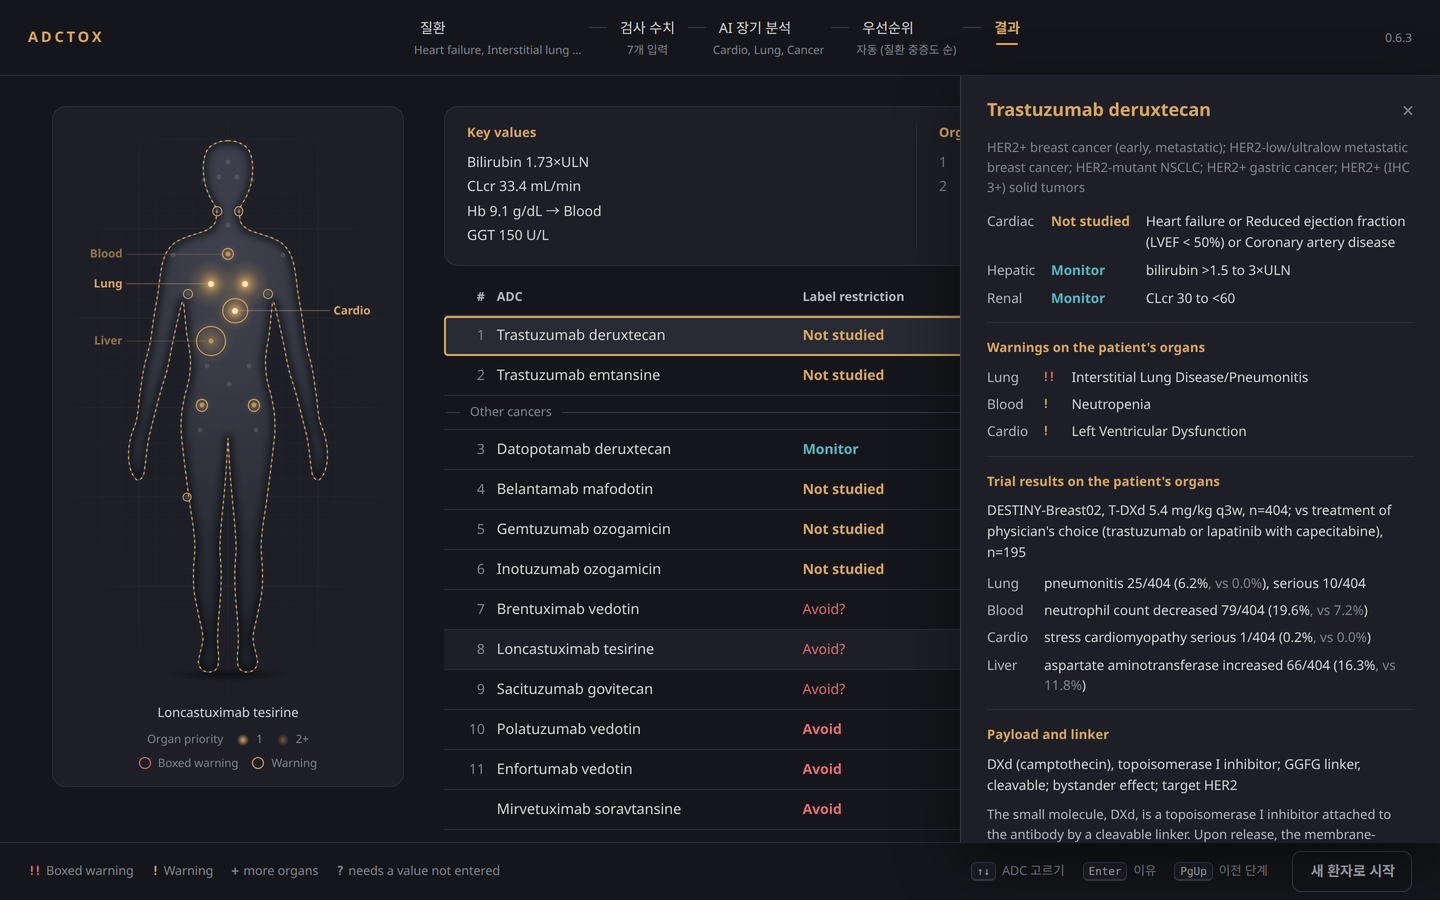
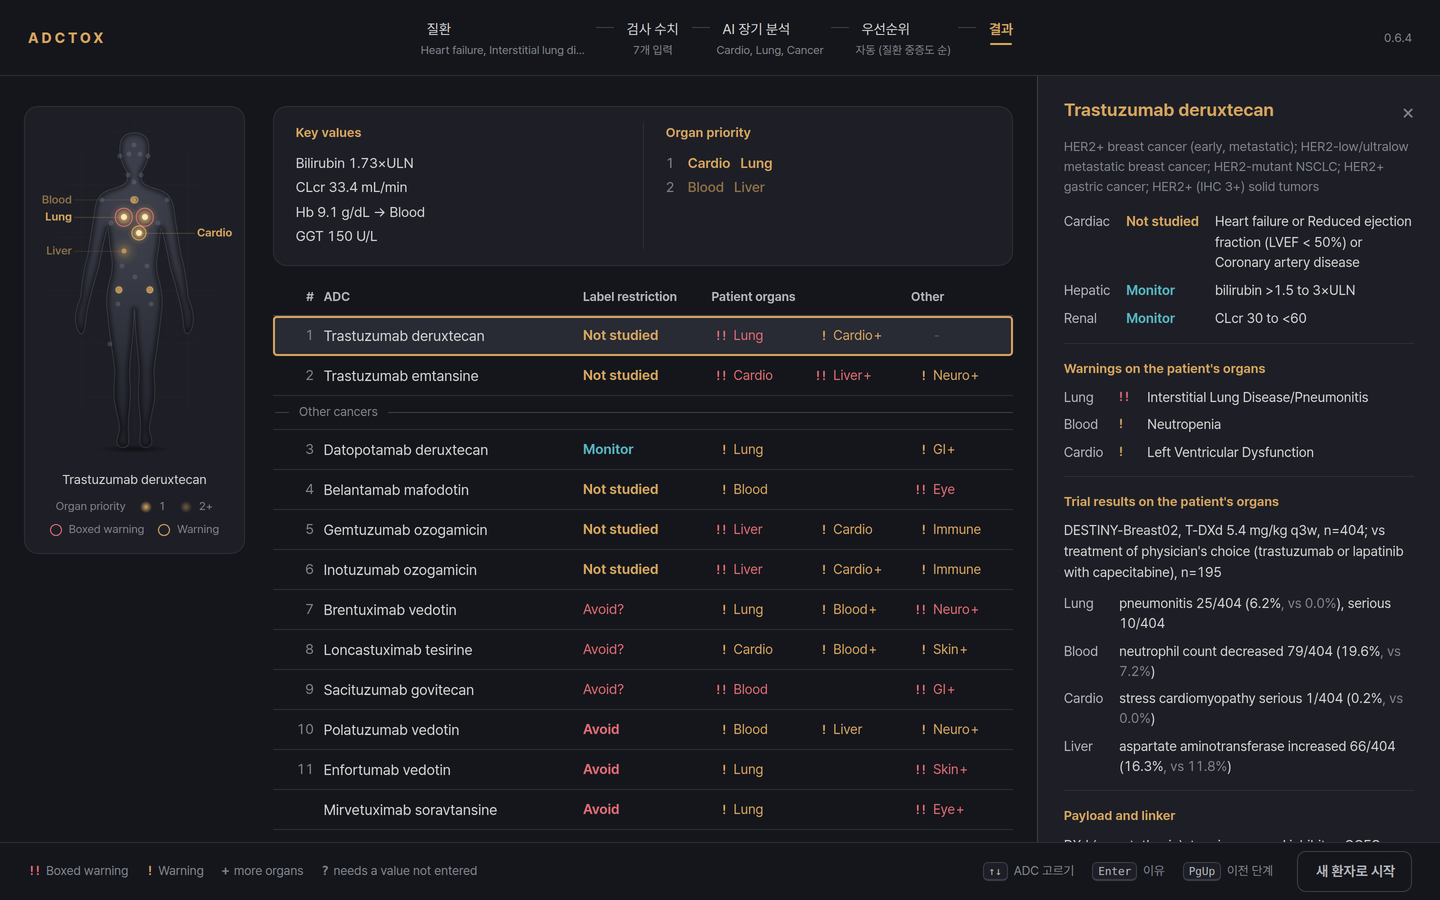
Release prep for app 0.6.4: version, notes, changelog, README image

diff --git a/ml/adc_version.py b/ml/adc_version.py
@@ -1,5 +1,5 @@
 """Application and model-runtime compatibility versions (Ubuntu and Windows share them)."""
-APP_VERSION = "0.6.3"
+APP_VERSION = "0.6.4"
 RUNTIME_API = 1
 REPOSITORY = "ahnhc/ADCToX"
 # stable3.json: model bundles with the from-scratch organ judge (model 0.7+, ScratchJudge/), read by app 0.5+.

diff --git a/releases/app/NOTES.md b/releases/app/NOTES.md
@@ -1,7 +1,10 @@
-ADCTOX 0.6.3: 다섯 화면을 브라우저에서도 쓸 수 있다. Ubuntu, macOS, Windows 모두 0.6.3이다.
+ADCTOX 0.6.4: 브라우저 화면 마무리. Ubuntu, macOS, Windows 모두 0.6.4다.
 
-- **adctox-web (= adctox --web).** 같은 다섯 단계(질환 → 검사 수치 → AI 장기 분석 → 우선순위 → 결과)가 기본 브라우저에서 열린다. 이 컴퓨터 안에서만 돌고(127.0.0.1), 서버에는 아무것도 남지 않는다. 화면 옆의 인체 지도가 AI 장기 분석부터 환자의 장기를 밝히고, 고른 ADC의 boxed warning은 빨간 고리, warning은 주황 고리로 보여 준다. ADC 상세는 오른쪽 서랍으로 열린다. 키는 터미널과 같다(PgUp / PgDn, ↑↓, Enter, Esc). 클릭도 된다.
-- 터미널 화면은 그대로 기본이다. `adctox`는 전과 같다. `adctox-web` 명령은 설치 스크립트가 만들고, `adctox --update-app`으로 올린 경우에는 다음 실행 때 생긴다. Windows zip에는 ADCTOX-web.bat가 있다.
+- **ADC 상세가 1280 px부터 세 번째 열로 들어간다.** 인체 지도가 먼저 좁아지고 표는 그대로 다 보인다. 그보다 좁은 화면은 전처럼 덮는다.
+- **인체 지도가 모든 단계에 있다.** 질환 화면에서는 비어 있고, 검사 수치 화면에서는 기준을 넘는 값의 장기가 켜진다(Hb 9.1 g/dL이면 Blood). AI 장기 분석부터는 전과 같다.
+- **결과 화면을 인쇄할 수 있다** (Ctrl-P). Key values, Organ priority, 표, 범례, 열린 ADC의 상세가 A4로 나온다.
+- **Pretendard Variable 글꼴을 내장했다** (SIL Open Font License 1.1). 어느 PC에서나 같은 글꼴로 보인다. 앱이 2 MB 커졌다.
+- `adctox --update-app`으로 올린 설치본은 다음 실행 때(`--version`이든 `--help`든) `adctox` 옆에 `adctox-web`이 생긴다.
 
 모델은 그대로 0.7이다.
 

diff --git a/CHANGELOG.md b/CHANGELOG.md
@@ -1,5 +1,13 @@
 # Changelog
 
+## 0.6.4: The browser screens, finished (Ubuntu, macOS and Windows)
+
+- **The ADC detail docks as a third column from 1280 px**: the body map gives way first and the table stays whole (#, ADC, Label restriction, Patient organs, Other, Key values, Organ priority all readable with the detail open); narrower screens keep the overlay.
+- **The body map is on every step**: empty on 질환, lit by the lab flags on 검사 수치 (Hb 9.1 g/dL lights Blood, bilirubin 2.0 mg/dL lights Liver), as before from AI 장기 분석 on.
+- **The result screen prints** (Ctrl-P): Key values, Organ priority, the table, the legend and the open ADC's detail on A4, no page break inside a row or a section.
+- **Pretendard Variable is embedded** (SIL Open Font License 1.1, licence text beside it), so the page has the same face on every PC, Korean and Latin alike; the app grows by 2 MB.
+- An app updated in place writes `adctox-web` beside `adctox` at its first start of any kind, `--version` and `--help` included.
+
 ## 0.6.3: The five screens in the browser (Ubuntu, macOS and Windows)
 
 - **`adctox --web`: the same five steps in the default browser**, served on this computer only (127.0.0.1, a free port; nothing is stored on the server, the page keeps its entries in the tab). A body map beside the screens lights the patient's organs from AI 장기 분석 on (level 1 bright, level 2 dim) and rings the selected ADC's boxed warnings red and its warnings amber; the ADC detail opens as a drawer with the same sections as the terminal panel; keys as in the terminal (PgUp / PgDn, ↑↓, Enter, Esc), clicking works everywhere. The terminal screens stay the default.

diff --git a/README.md b/README.md
@@ -94,7 +94,7 @@ ADC(antibody-drug conjugate)는 항체에 강한 세포독성 payload를 붙인 
 
 **검사 수치.** bilirubin, AST, ALT는 ULN 배수로, 크레아티닌은 Cockcroft–Gault CLcr로 바꿔 라벨의 간, 신장 기능 기준과 맞춥니다. 입력하지 않은 값에 따라 판정이 달라지면 `?`로 표시하고, 필요한 값을 알려 줍니다.
 
-**브라우저 화면.** `adctox-web`(`adctox --web`과 같음)은 같은 다섯 화면을 기본 브라우저에서 엽니다. 이 컴퓨터 안에서만 열리고 서버에는 아무것도 남지 않습니다. 인체 지도가 환자의 장기와 고른 ADC의 경고(boxed warning은 빨간 고리, warning은 주황 고리)를 비추고, ADC 상세는 서랍으로 열립니다.
+**브라우저 화면.** `adctox-web`(`adctox --web`과 같음)은 같은 다섯 화면을 기본 브라우저에서 엽니다. 이 컴퓨터 안에서만 열리고 서버에는 아무것도 남지 않습니다. 인체 지도가 환자의 장기와 고른 ADC의 경고(boxed warning은 빨간 고리, warning은 주황 고리)를 비추고, ADC 상세는 넓은 화면에서는 세 번째 열로, 좁은 화면에서는 서랍으로 열립니다. 결과 화면은 Ctrl-P로 A4에 인쇄됩니다.
 
 <p align="center">
   <img src="docs/images/web_result.png" alt="브라우저 화면: 결과와 ADC 상세, 인체 지도" width="820">
